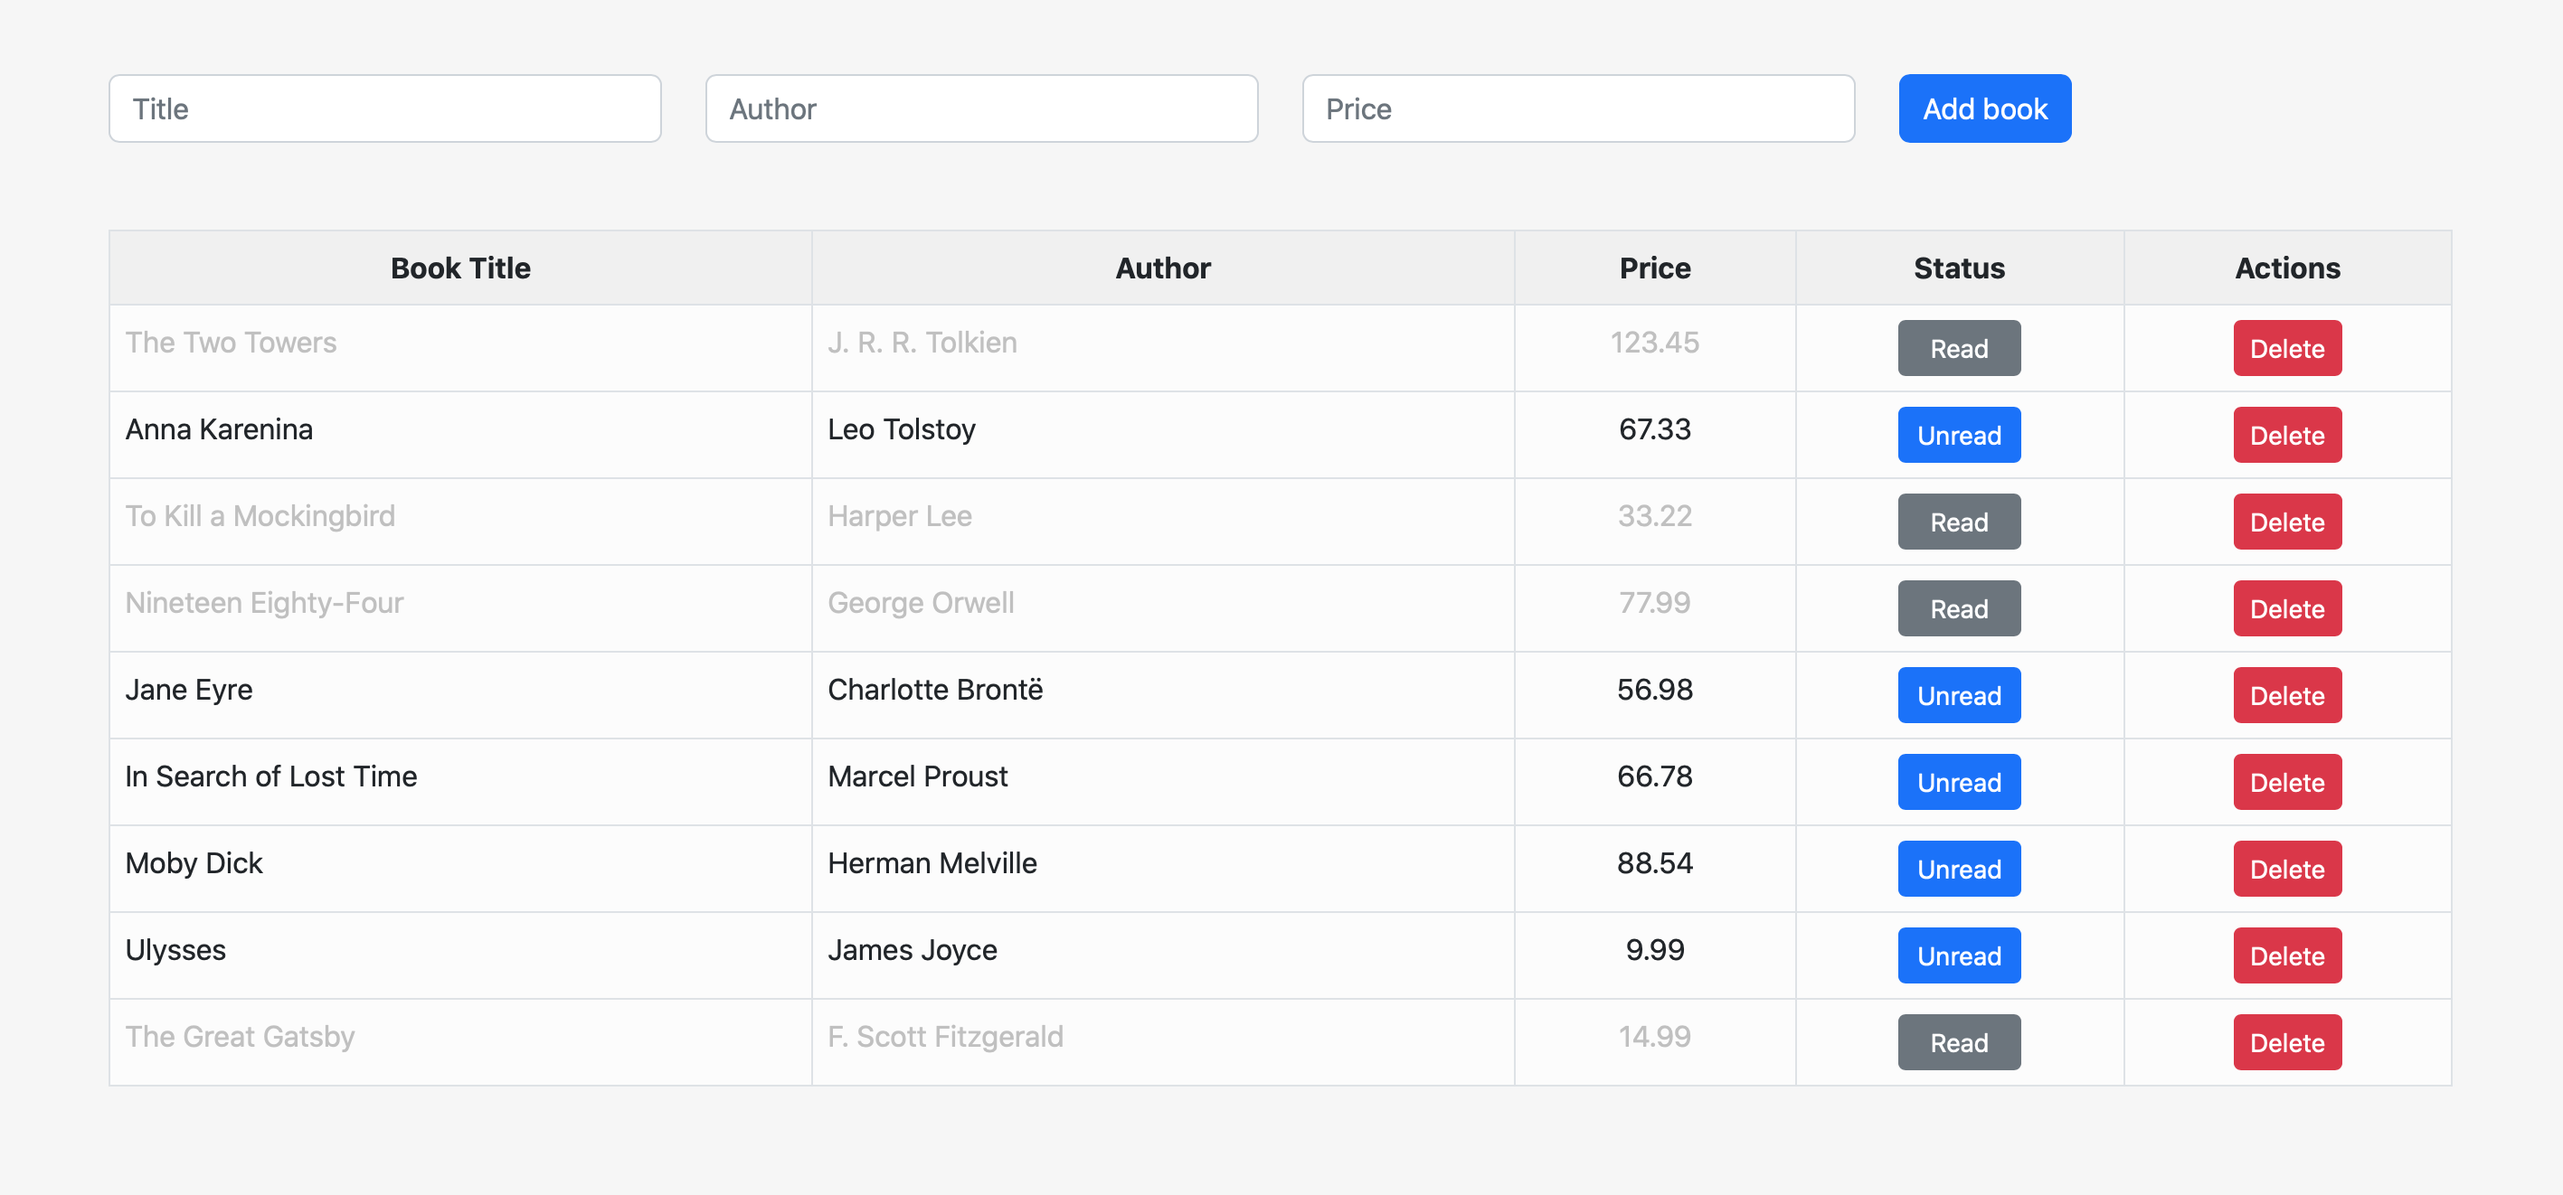
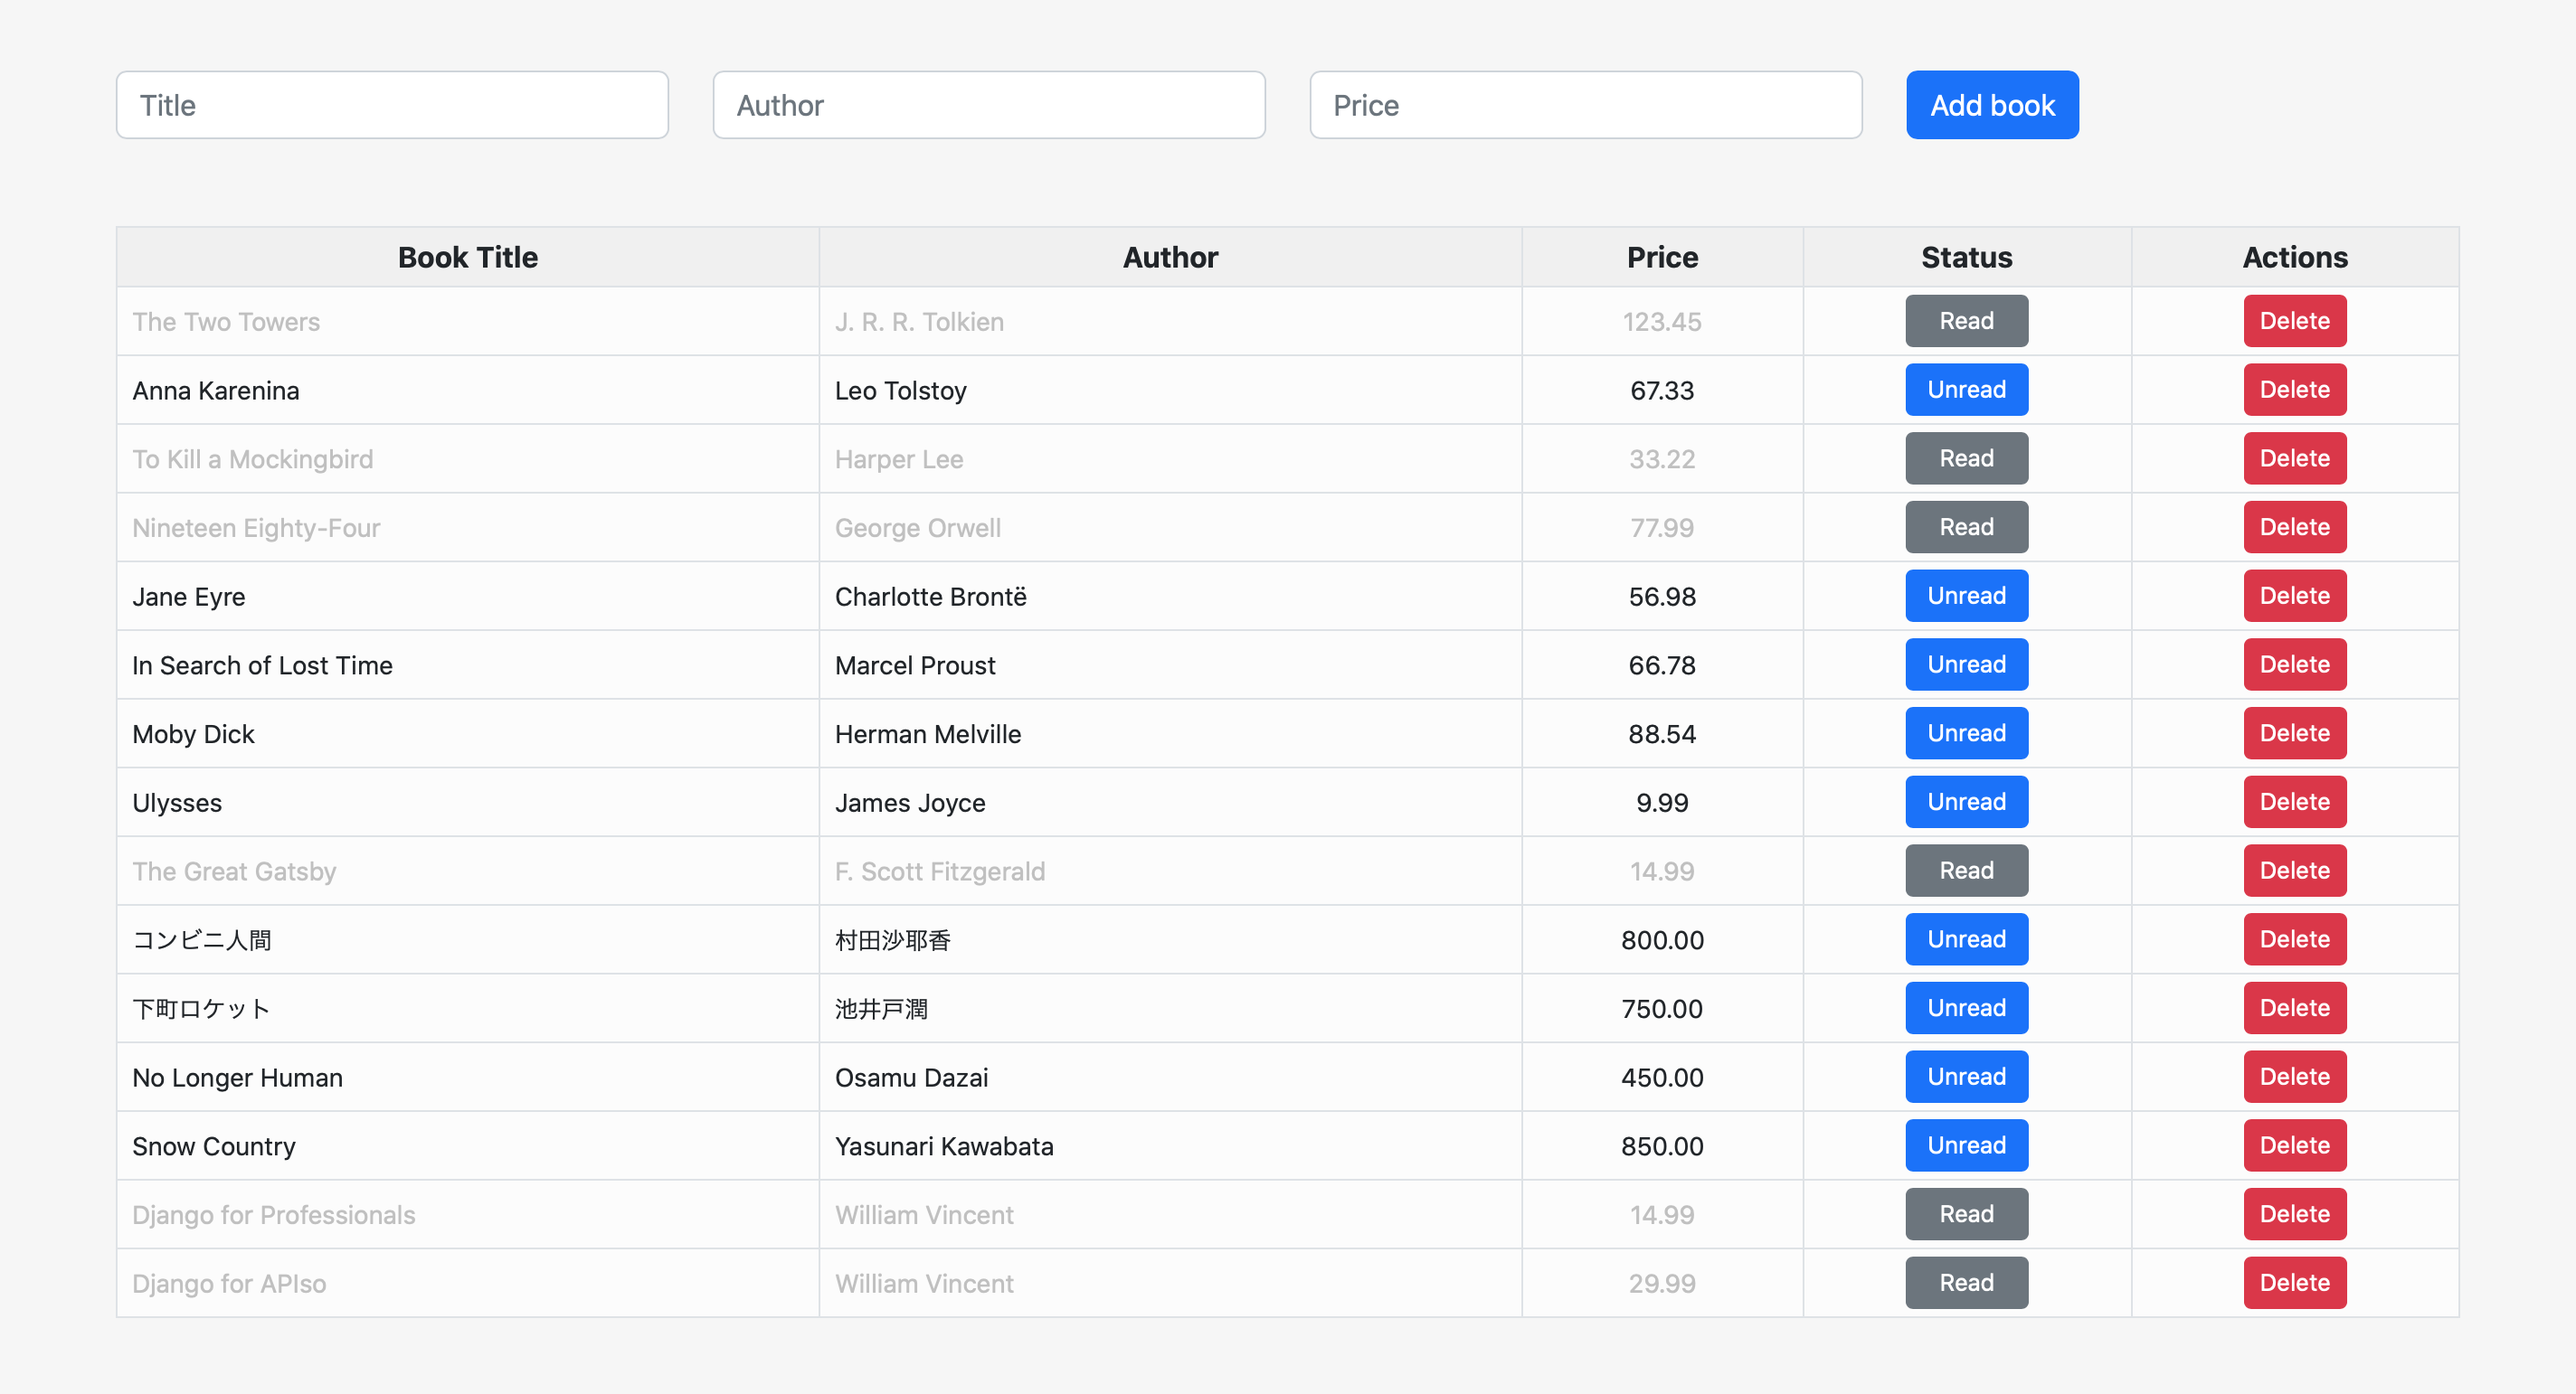
Frontend and screenshot update

diff --git a/templates/partial_individual_book.html b/templates/partial_individual_book.html
@@ -1,14 +1,14 @@
 <tr class="{% if book.read %}grey-text{% endif %}">
 
-    <td>{{ book.title }}</td>
-    <td>{{ book.author }}</td>
-    <td class="text-center">{{ book.price }}</td>
+    <td class="align-middle ps-2">{{ book.title }}</td>
+    <td class="align-middle ps-2">{{ book.author }}</td>
+    <td class="align-middle text-center">{{ book.price }}</td>
 
     <!-- Status cell -->
-    <td class="text-center">
+    <td class="align-middle text-center">
         {% if not book.read %}
 
-            <button class="btn btn-primary btn-sm status-button"
+            <button class="btn btn-primary btn-sm table-button status-button"
                     hx-put="{% url 'update_read_status' book.id %}"
                     hx-target="closest tr"
                     hx-swap="outerHTML" >
@@ -17,7 +17,7 @@
 
         {% else %}
 
-            <button class="btn btn-secondary btn-sm status-button"
+            <button class="btn btn-secondary btn-sm table-button status-button"
                     hx-put="{% url 'update_read_status' book.id %}"
                     hx-target="closest tr"
                     hx-swap="outerHTML" >
@@ -28,10 +28,10 @@
     </td>
 
     <!-- Action button cell -->
-    <td class="text-center">
+    <td class="align-middle text-center">
 
         <!-- Delete button -->
-        <button class="btn btn-danger btn-sm"
+        <button class="btn btn-danger btn-sm table-button"
                 hx-delete="{% url 'delete_book' book.id %}"
                 hx-target="closest tr"
                 hx-swap="outerHTML"

diff --git a/templates/base.html b/templates/base.html
@@ -22,7 +22,7 @@
 
                 <!-- Table of books -->
 
-                <table class="table table-bordered mt-5">
+                <table class="table table-bordered table-sm mt-5">
                     <thead>
                         <tr>
                             <th scope="col" style="width: 30%" class="text-center">Book Title</th>

diff --git a/static/base.css b/static/base.css
@@ -11,10 +11,18 @@ tbody {
     background-color: rgb(252, 252, 252);
 }
 
+td {
+    font-size: 14px;
+}
+
 .grey-text {
     color: rgb(192, 192, 192);
 }
 
 .status-button {
     width: 68px;
+}
+
+.table-button {
+    font-size: 13px;
 }
